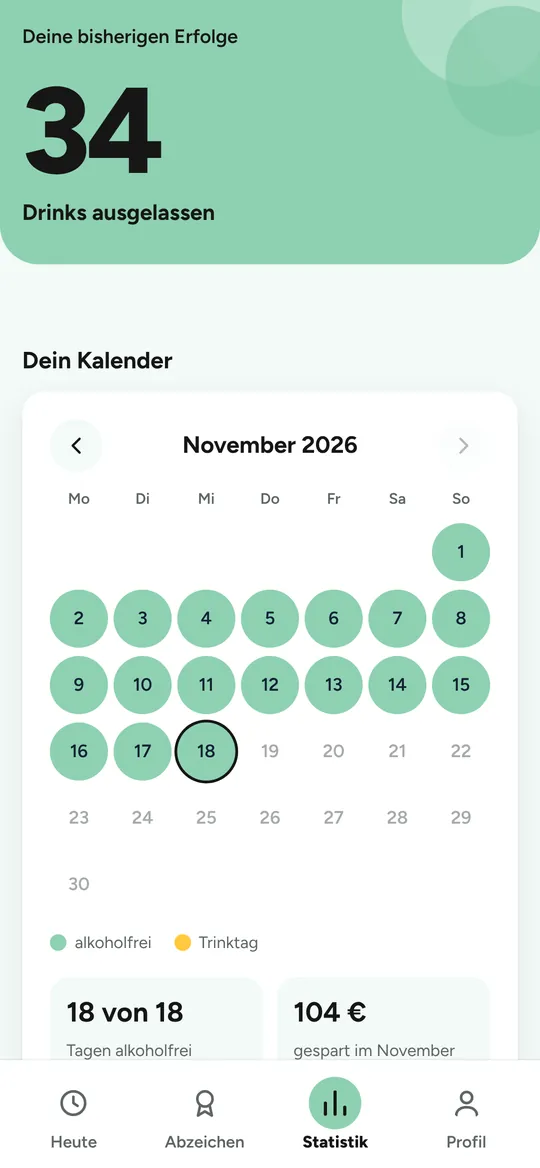
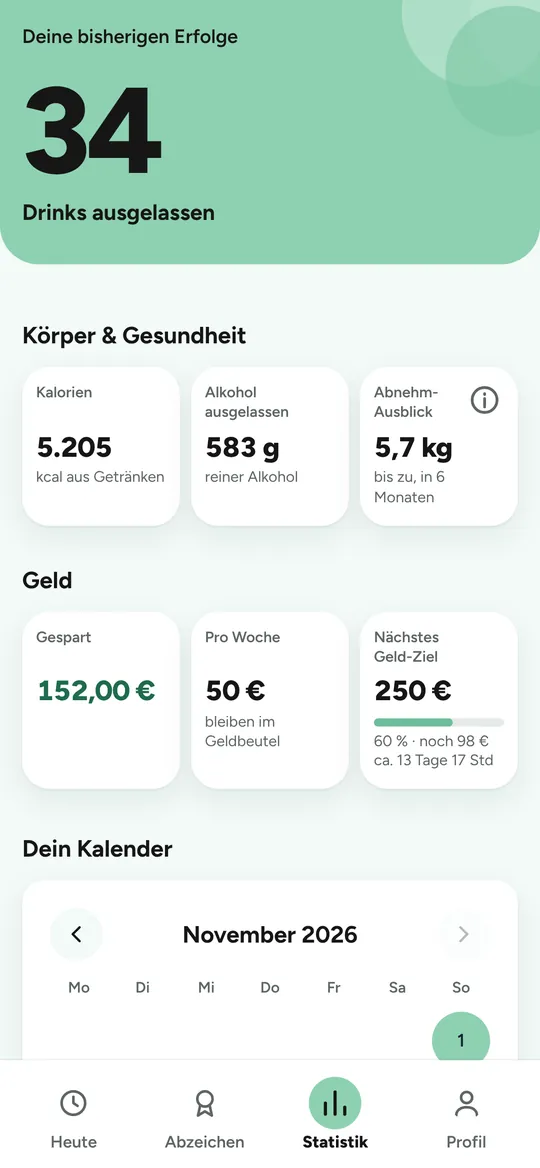
Website: Statistik-Screenshot aktualisiert
Claude-Session: https://claude.ai/code/session_01X9k6KJRPZ34ofW3RSHVSGN

diff --git a/index.html b/index.html
@@ -52,7 +52,7 @@
 <section id="app">
 <h2>So sieht Glasklar aus</h2>
 <p class="sub">Übersichtlich, freundlich und in wenigen Sekunden eingerichtet.</p>
-<div class="shots"><figure class="glass shot" style="margin:0"><img src="img/screens/1-heute.webp" alt="Glasklar-App: Dein Tag" loading="lazy" width="270" height="584"><p>Dein Tag</p></figure><figure class="glass shot" style="margin:0"><img src="img/screens/2-abzeichen.webp" alt="Glasklar-App: Abzeichen" loading="lazy" width="270" height="584"><p>Abzeichen</p></figure><figure class="glass shot" style="margin:0"><img src="img/screens/3-statistik.webp" alt="Glasklar-App: Statistik & Kalender" loading="lazy" width="270" height="584"><p>Statistik & Kalender</p></figure><figure class="glass shot" style="margin:0"><img src="img/screens/4-rezepte.webp" alt="Glasklar-App: Drink des Tages" loading="lazy" width="270" height="584"><p>Drink des Tages</p></figure></div>
+<div class="shots"><figure class="glass shot" style="margin:0"><img src="img/screens/1-heute.webp" alt="Glasklar-App: Dein Tag" loading="lazy" width="270" height="584"><p>Dein Tag</p></figure><figure class="glass shot" style="margin:0"><img src="img/screens/2-abzeichen.webp" alt="Glasklar-App: Abzeichen" loading="lazy" width="270" height="584"><p>Abzeichen</p></figure><figure class="glass shot" style="margin:0"><img src="img/screens/3-statistik.webp" alt="Glasklar-App: Statistik" loading="lazy" width="270" height="584"><p>Statistik</p></figure><figure class="glass shot" style="margin:0"><img src="img/screens/4-rezepte.webp" alt="Glasklar-App: Drink des Tages" loading="lazy" width="270" height="584"><p>Drink des Tages</p></figure></div>
 </section>
 <section>
 <a class="glass storyt" href="story.html">
